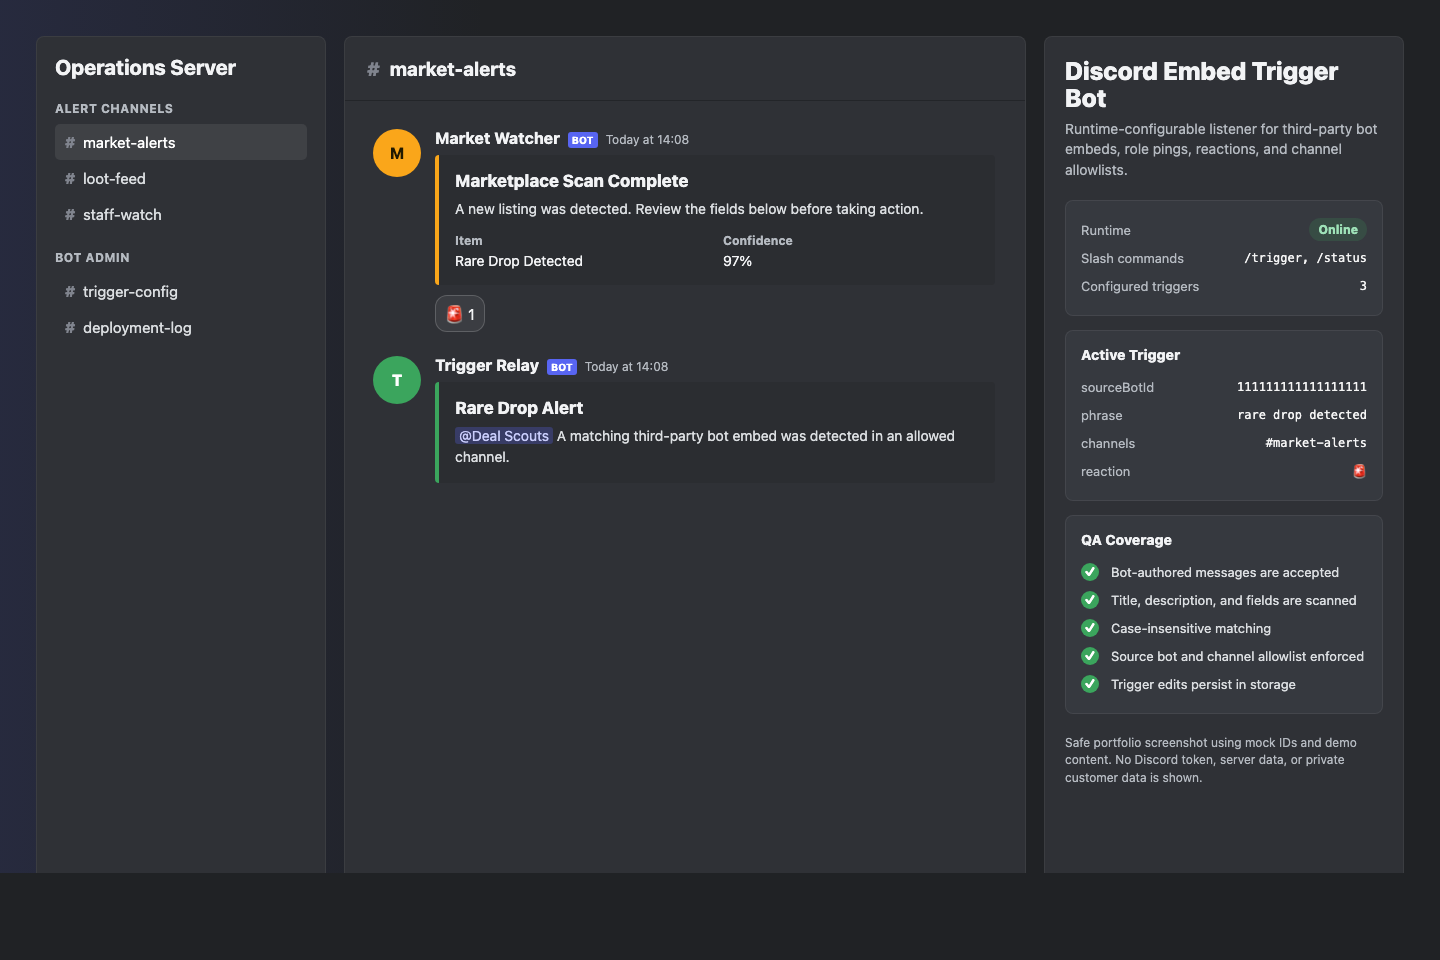
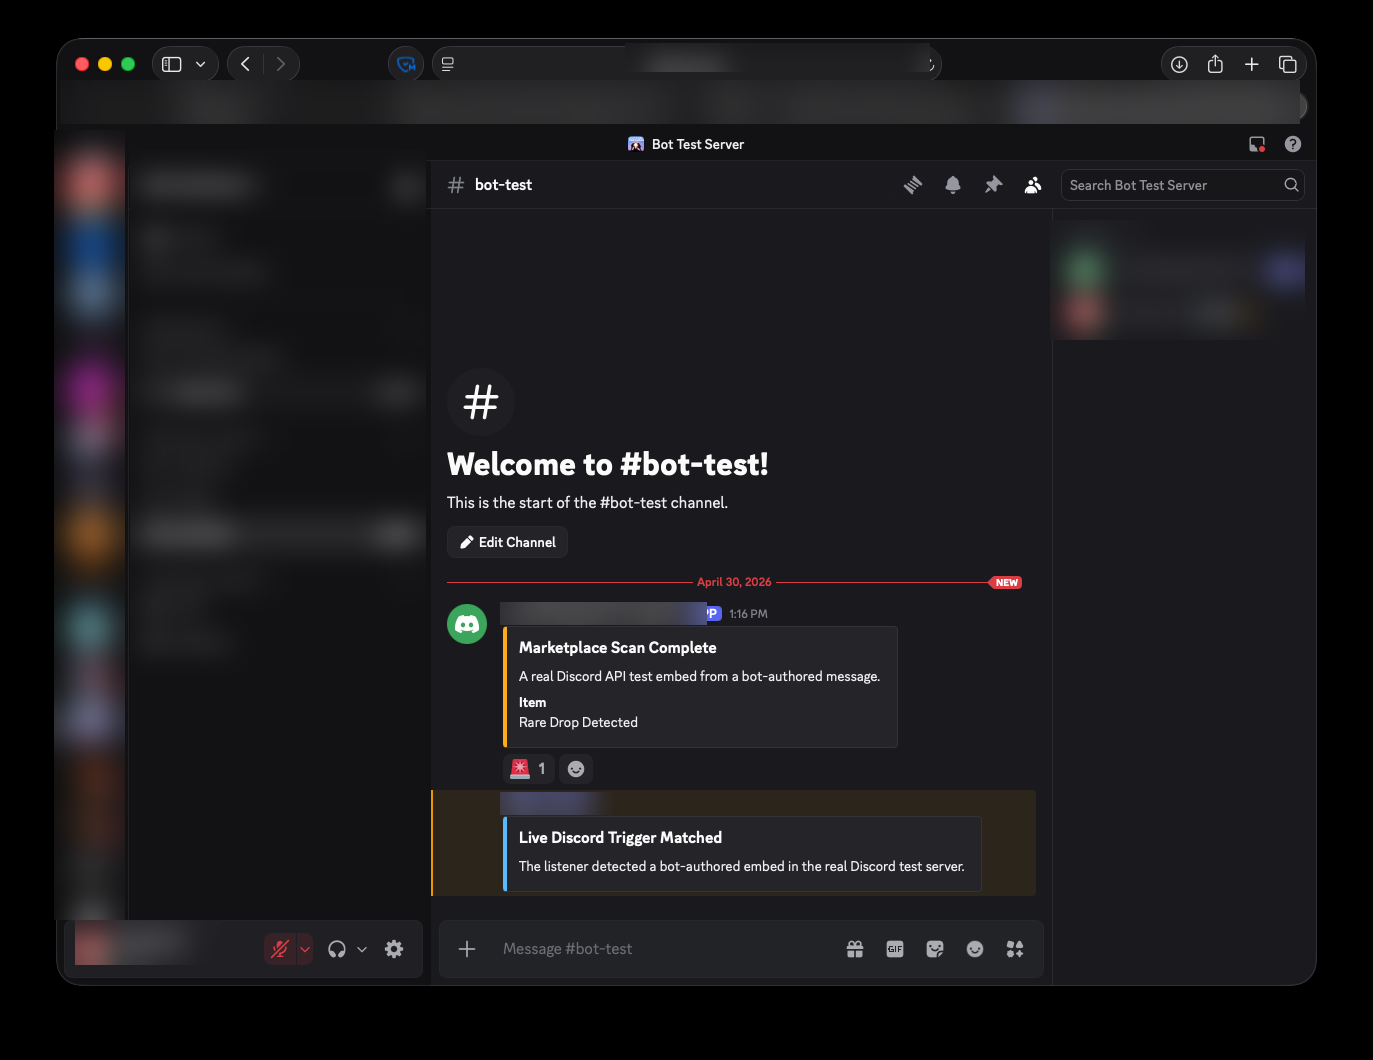
Replace portfolio screenshot with live Discord smoke test

diff --git a/README.md b/README.md
@@ -6,7 +6,7 @@ Portfolio-ready Discord bot for a common server automation gap: listening to emb
 
 This project was built to match a real freelance brief for a "multi-trigger embed listener" where the critical requirement is that bot-authored messages must be processed, not ignored.
 
-![Portfolio demo screenshot](screenshots/portfolio-demo.png)
+![Live Discord smoke test screenshot](screenshots/portfolio-demo.png)
 
 ## Business Problem
 